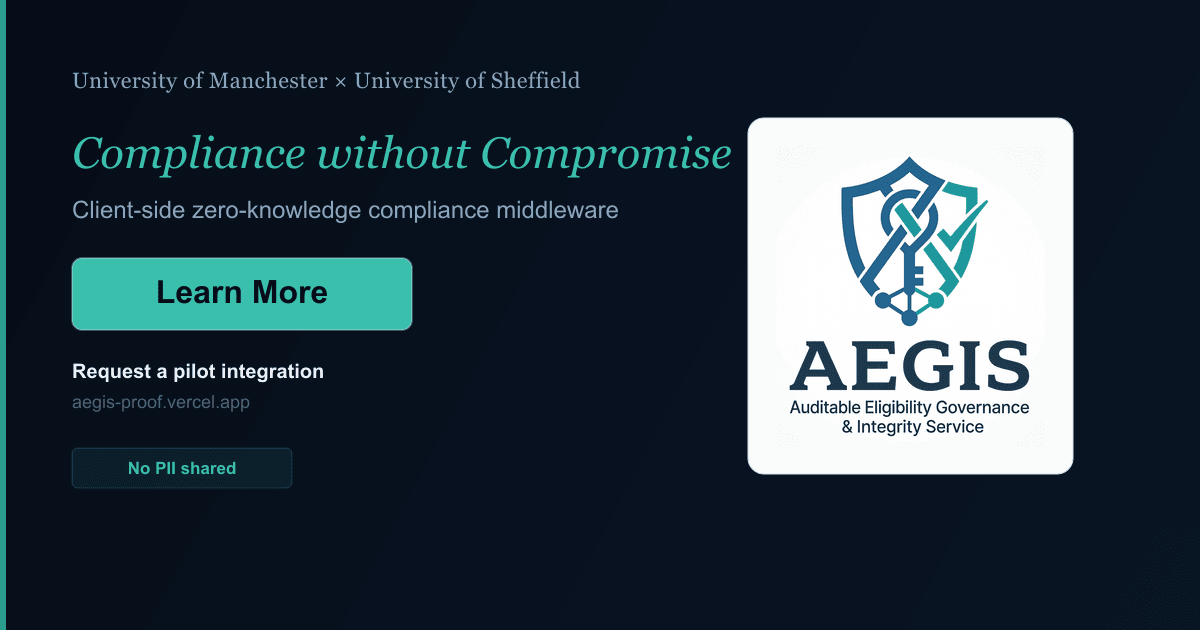
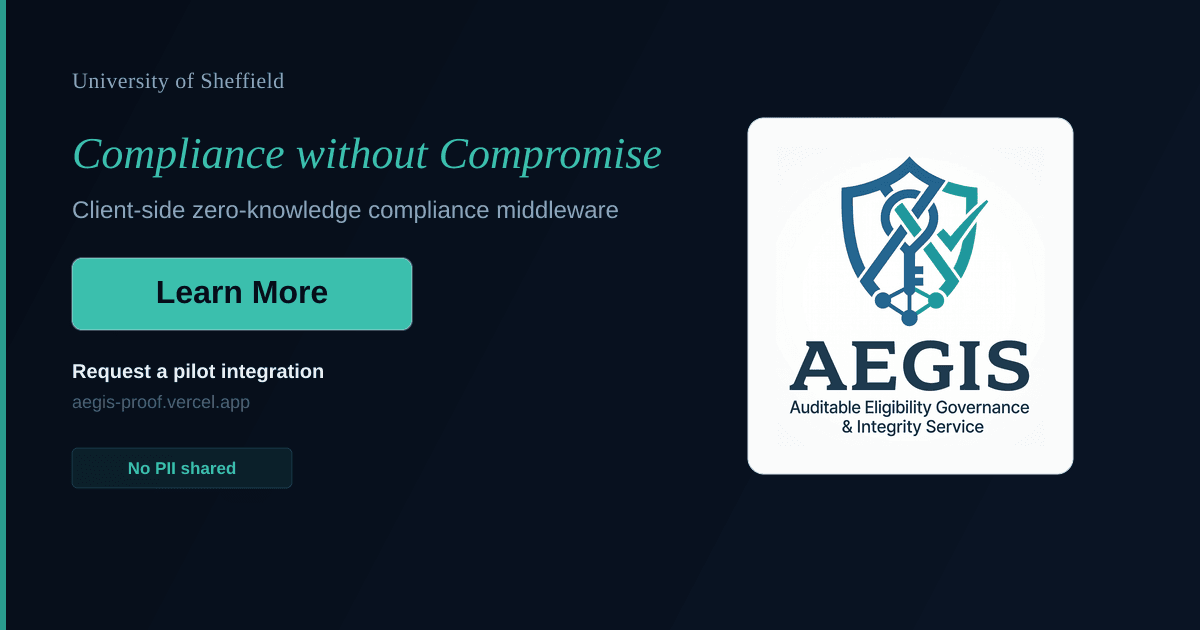
Present AEGIS as University of Sheffield only (drop Manchester affiliation) (#3)
* Present AEGIS as University of Sheffield only

Drop Manchester partnership copy, logos, and OG branding so the
landing page reflects Sheffield-only affiliation. Neutralise
Dr Bernardo Magri's Manchester affiliation wording pending confirmation.

* Remove Dr Bernardo Magri from the AEGIS team

Drop his team entry, photo asset, and related copy. Rebalance the
team grid to two columns so the remaining members layout cleanly.

* Promote Behzad Abdolmaleki to Principal Investigator

Update his team role from Co-PI to Principal Investigator (PI)
per project confirmation.

---------

diff --git a/src/components/InstitutionalPartners.tsx b/src/components/InstitutionalPartners.tsx
@@ -14,12 +14,6 @@ function UniversityLogoImage({ src, alt }: { src: string; alt: string }) {
 export function InstitutionalPartners({ variant = "full" }: { variant?: "full" | "compact" }) {
   const logos = [
     {
-      id: "manchester" as const,
-      src: ASSETS.universityManchester,
-      alt: "The University of Manchester",
-      name: "University of Manchester",
-    },
-    {
       id: "sheffield" as const,
       src: ASSETS.universitySheffield,
       alt: "University of Sheffield",
@@ -45,13 +39,12 @@ export function InstitutionalPartners({ variant = "full" }: { variant?: "full" |
   return (
     <div className="mt-14 border-t border-white/[0.06] pt-12">
       <p className="mb-8 text-center text-sm text-aegis-slate">
-        Research partnership between the University of Manchester and the
-        University of Sheffield
+        A University of Sheffield research project
       </p>
 
-      <div className="grid gap-5 sm:grid-cols-2">
+      <div className="mx-auto flex max-w-md flex-col items-center gap-3">
         {logos.map((logo) => (
-          <div key={logo.name} className="flex flex-col items-center gap-3">
+          <div key={logo.name} className="flex w-full flex-col items-center gap-3">
             <div className={cn(PARTNER_LOGO_SURFACE, logoBoxClass)}>
               <UniversityLogoImage src={logo.src} alt={logo.alt} />
             </div>

diff --git a/src/lib/constants.ts b/src/lib/constants.ts
@@ -1,9 +1,7 @@
 export const ASSETS = {
   aegisLogo: "/assets/aegis-logo.png",
   cyberAsap: "/assets/cyber-asap.png",
-  universityManchester: "/assets/university-manchester.png",
   universitySheffield: "/assets/university-sheffield.png",
-  teamBernardo: "/assets/team-bernardo.jpg",
   teamBehzad: "/assets/team-behzad.jpg",
   teamBhavish: "/assets/team-bhavish.jpg",
 } as const;
@@ -34,15 +32,7 @@ export const NAV_LINKS = [
 
 export const TEAM_MEMBERS = [
   {
-    role: "Lead Principal Investigator (Lead PI)",
-    name: "Dr. Bernardo Magri",
-    photo: ASSETS.teamBernardo,
-    linkedin: "https://www.linkedin.com/in/bernardo-magri-9636a5213/",
-    bio: "Senior Lecturer in Cryptography at the University of Manchester. Specialises in advanced cryptographic primitives and multi-party computation.",
-    tags: ["MPC", "Cryptographic Primitives", "U. Manchester"],
-  },
-  {
-    role: "Co-Principal Investigator (Co-PI)",
+    role: "Principal Investigator (PI)",
     name: "Dr. Behzad Abdolmaleki",
     photo: ASSETS.teamBehzad,
     linkedin: "https://www.linkedin.com/in/behzad-abdolmaleki-0384472b7/",

diff --git a/src/components/TeamSection.tsx b/src/components/TeamSection.tsx
@@ -11,11 +11,11 @@ export function TeamSection() {
         <SectionHeading
           eyebrow="Research team"
           title="Built in the lab, not a slide deck"
-          description="Lead investigators from Manchester and Sheffield, with commercial development led from Sheffield."
+          description="Lead investigator and commercial development based at the University of Sheffield."
           centered
         />
 
-        <div className="grid gap-4 md:grid-cols-3">
+        <div className="mx-auto grid max-w-3xl gap-4 md:grid-cols-2">
           {TEAM_MEMBERS.map((member) => (
             <Panel key={member.name}>
               <div className="overflow-hidden">

diff --git a/src/AegisLandingPage.tsx b/src/AegisLandingPage.tsx
@@ -42,7 +42,7 @@ export default function AegisLandingPage() {
           <div className="mx-auto max-w-6xl px-6">
             <div className="max-w-2xl">
               <p className="text-sm text-aegis-slate-lo">
-                University of Manchester × University of Sheffield
+                University of Sheffield
               </p>
 
               <h1 className="mt-5 font-display text-[clamp(2.75rem,6vw,4.5rem)] font-bold leading-[1.08] tracking-[-0.03em] text-aegis-white">

diff --git a/src/components/ResearchCredibilityStrip.tsx b/src/components/ResearchCredibilityStrip.tsx
@@ -35,7 +35,7 @@ export function ResearchCredibilityStrip() {
             >
               CyberASAP
             </a>{" "}
-            programme — cross-institutional research across Manchester and Sheffield.
+            programme — University of Sheffield research.
           </p>
         </div>
         <div className="flex flex-wrap gap-2">

diff --git a/README.md b/README.md
@@ -6,7 +6,7 @@ Marketing site for **AEGIS** (Auditable Eligibility Governance & Integrity Servi
 
 **Tagline:** Compliance without Compromise
 
-Research partnership between the University of Manchester and the University of Sheffield, supported by the [CyberASAP programme](https://www.cyberasap.co.uk/).
+A University of Sheffield project, supported by the [CyberASAP programme](https://www.cyberasap.co.uk/).
 
 ---
 
